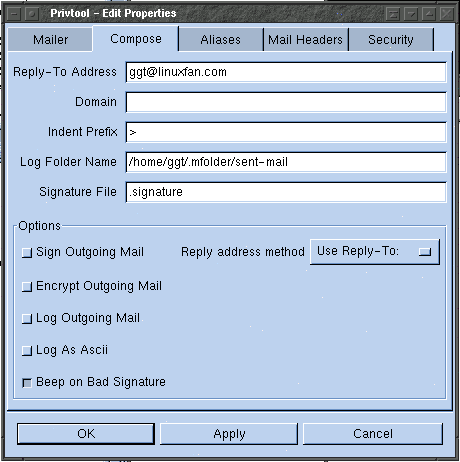
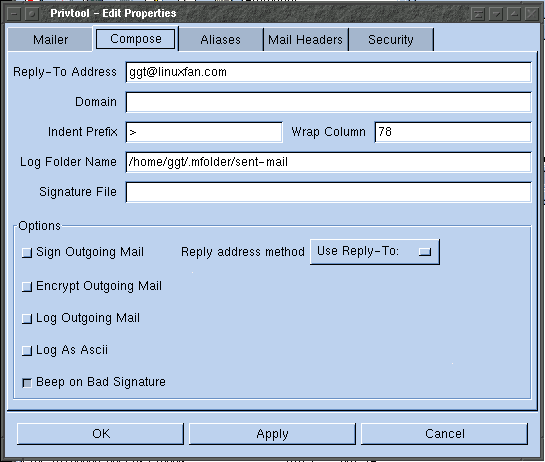
Updated doco to document the newly added wrap column functionality.

diff --git a/doc_gtk/user_guide3.html b/doc_gtk/user_guide3.html
@@ -75,6 +75,9 @@ These configuration options pertain to composing email.
 This only needs to be set if the system doesn't get it right automatically</TD></TR>
 <TR><TD VALIGN=top>Indent Prefix</TD>
 <TD VALIGN=top>The string to prepend onto each line of an included mail for quoting purposes.</TD></TR>
+<TR><TD VALIGN=top>Wrap Column</TD>
+<TD VALIGN=top>The column at which text should be wrapped. Setting this to 0 will turn wrapping
+off, otherwise the text will be wrapped at the space before the specified column.</TD></TR>
 <TR><TD VALIGN=top>Log Folder Name</TD>
 <TD VALIGN=top>The name of a folder where outgoing mail will be saved. (Outgoing mail is saved
 when the <STRONG>Log</STRONG> checkbox is checked in the compose window.)</TD></TR>
